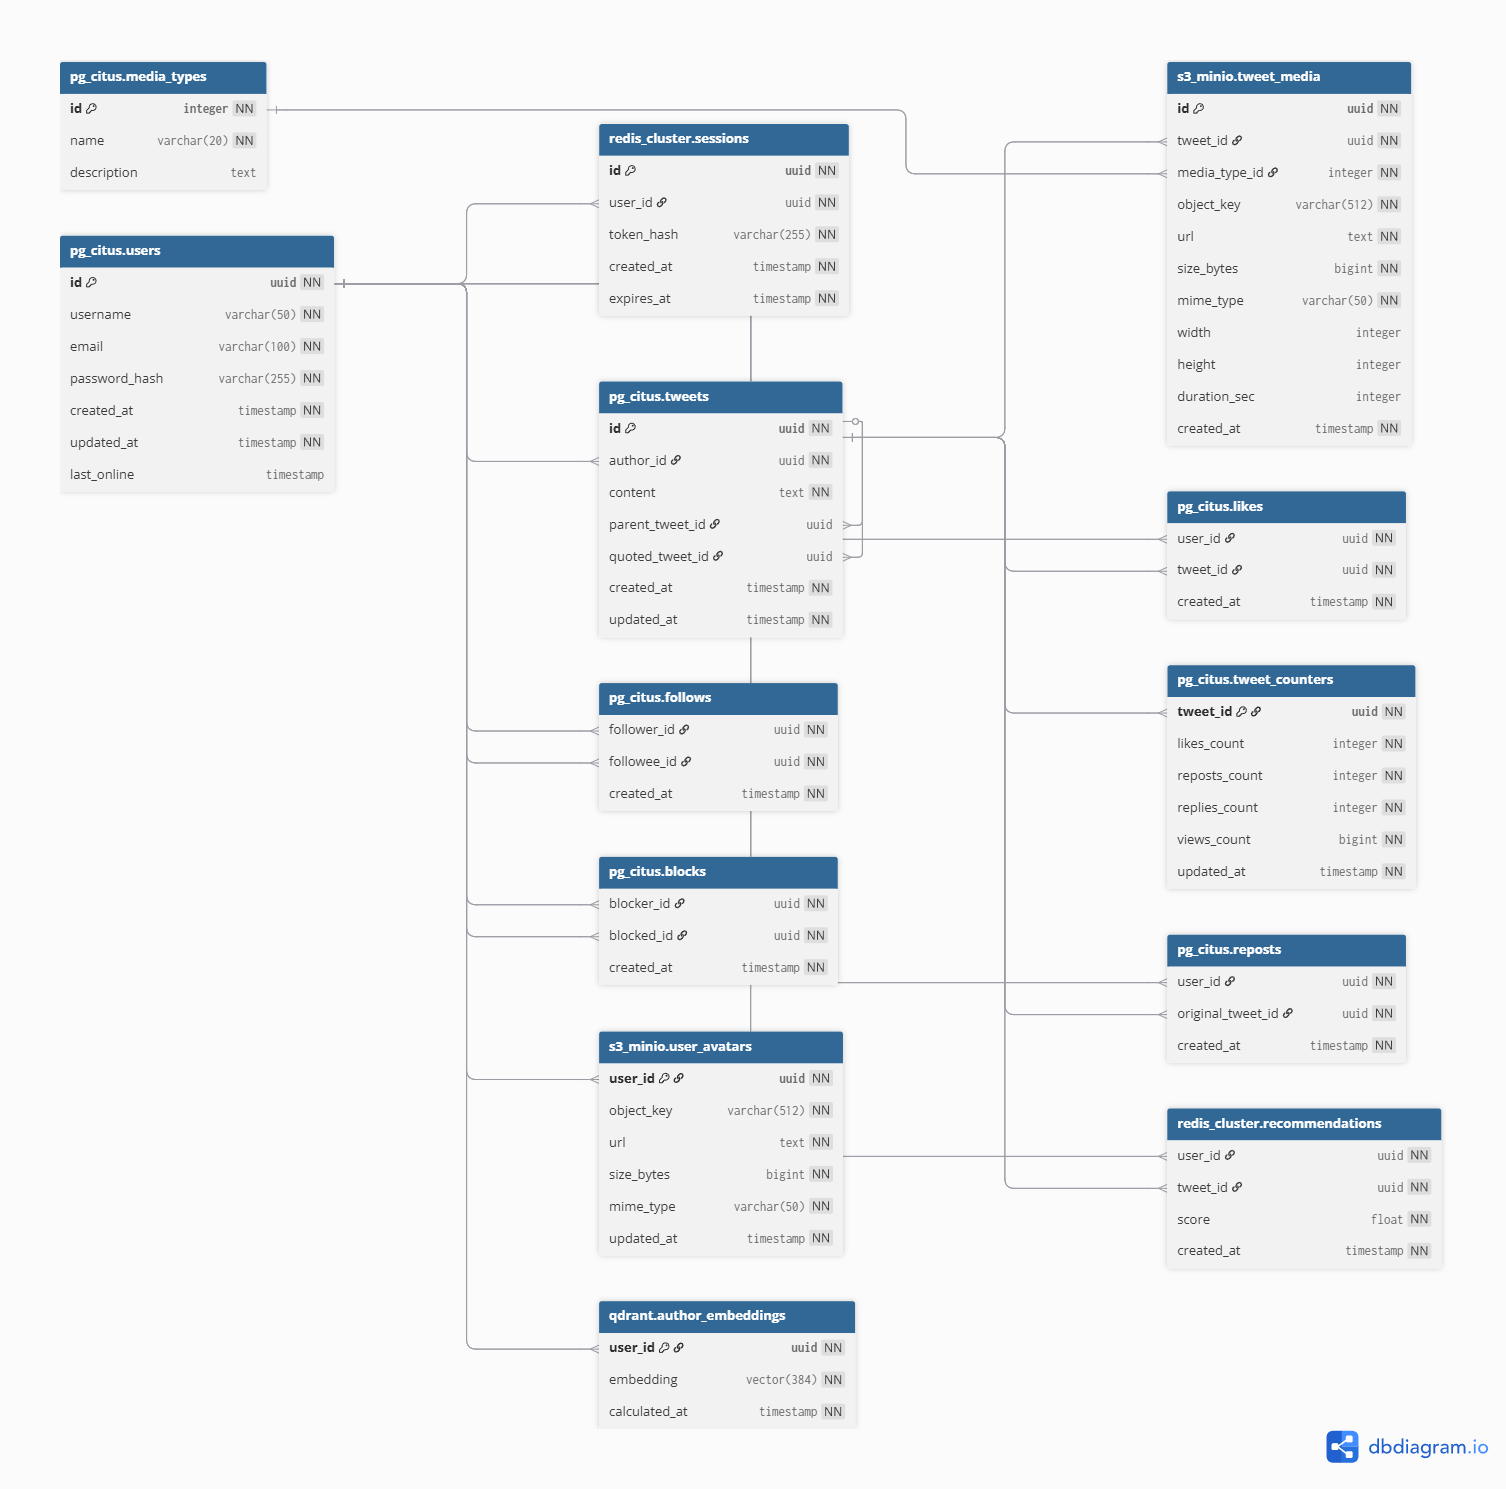
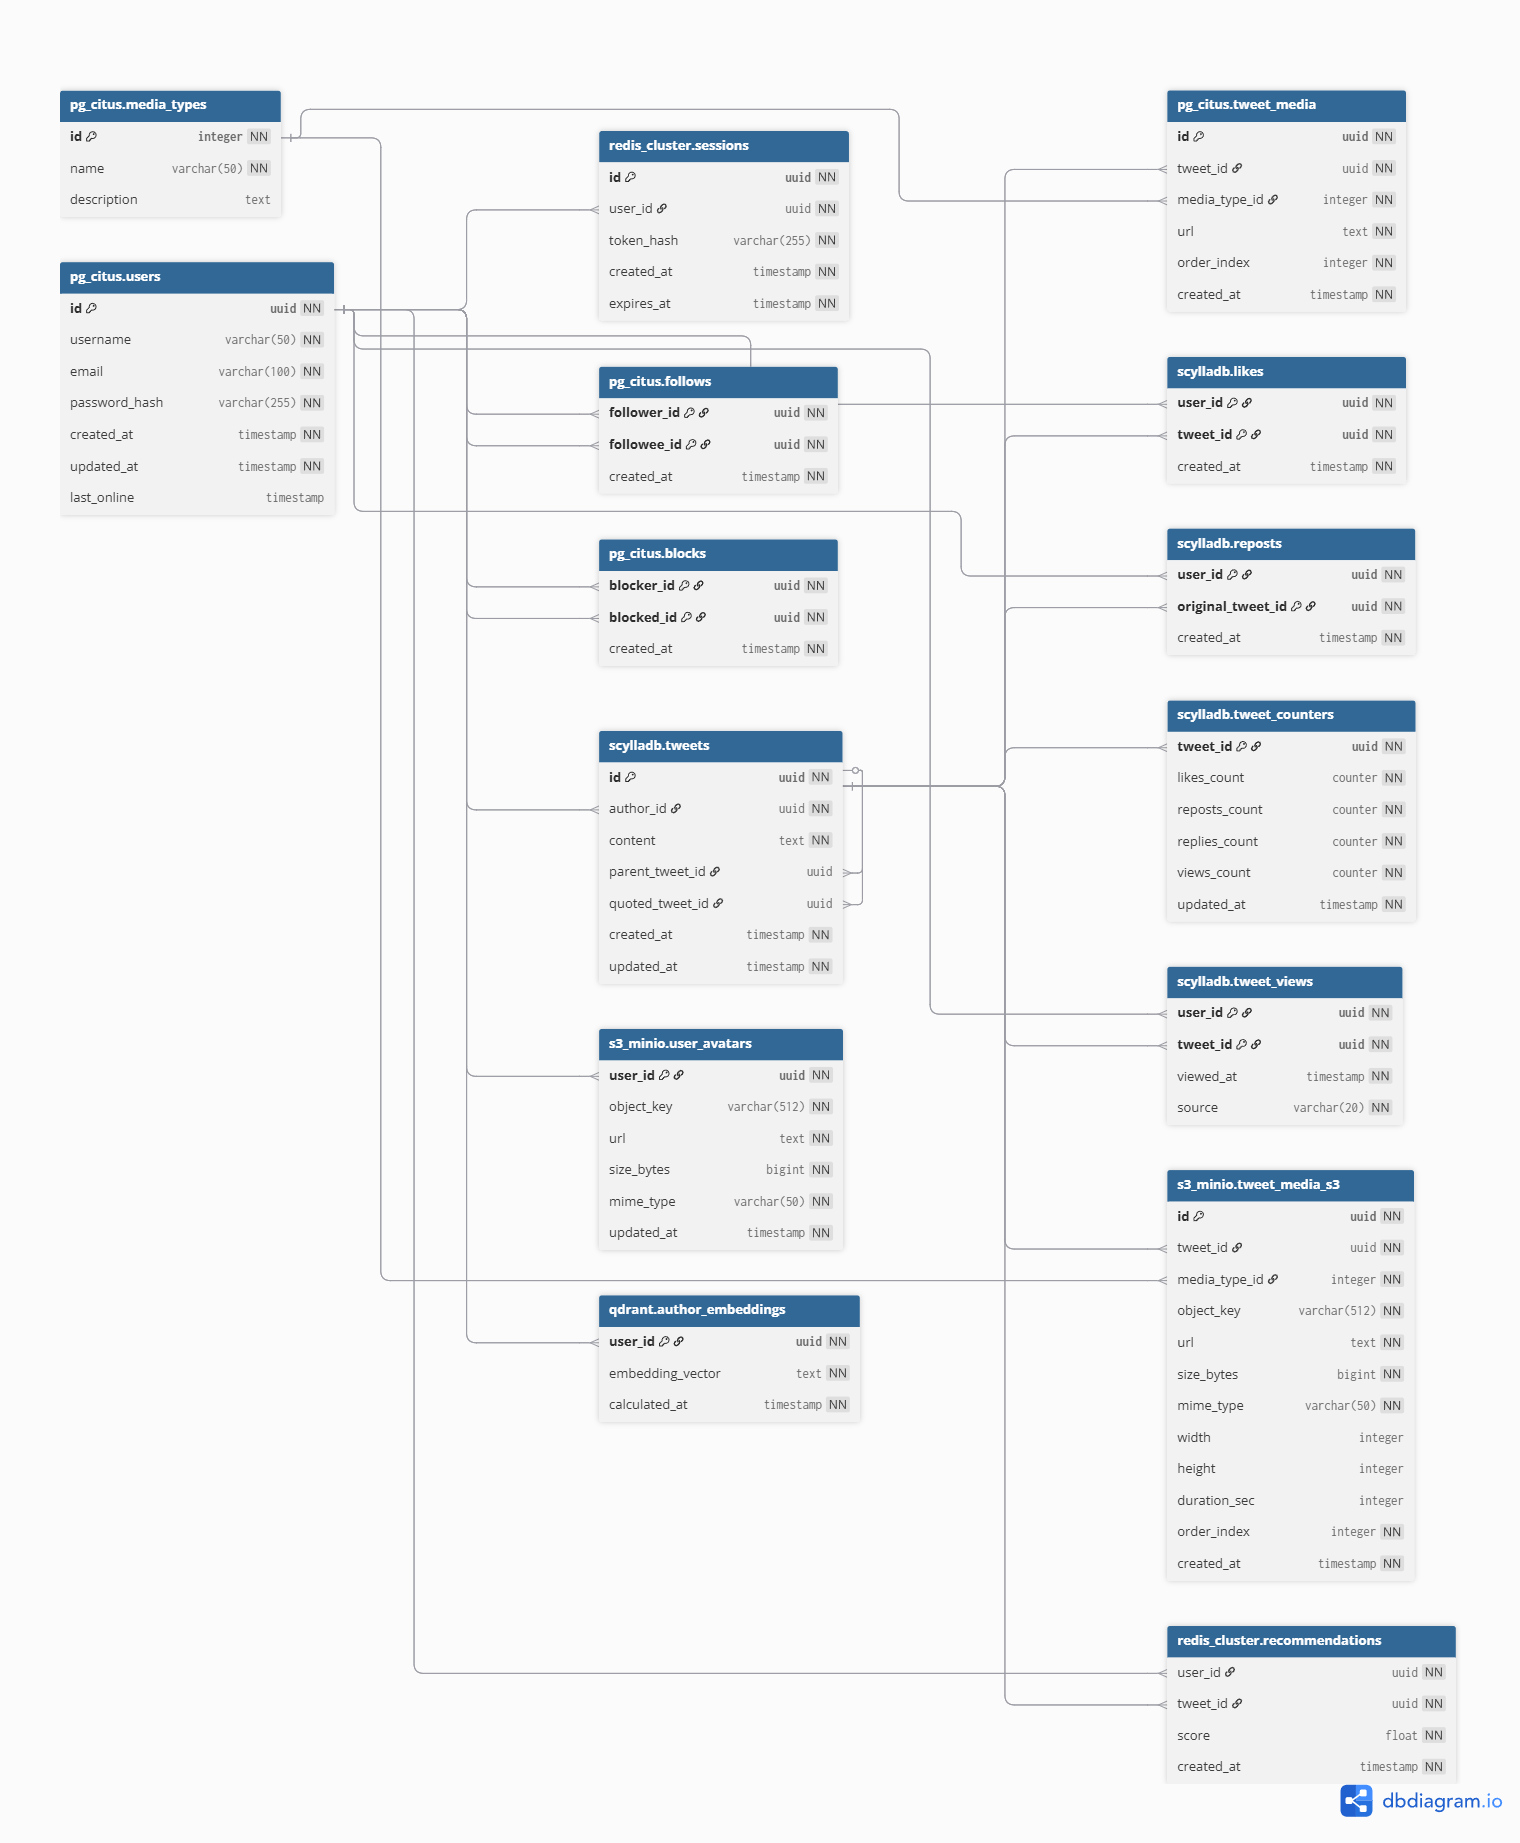
fix

diff --git a/README.md b/README.md
@@ -415,79 +415,86 @@ N_net = ceil(488 / 5.87) = ceil(83.1) = 84
 
 ---
 
-# 5. Логическая схема БД
+### 5. Логическая схема БД
 
 #### Логическая схема
 
 ![5db](img/5.png)
-
 #### Описание таблиц
 
-| Таблица | Назначение | Что хранится | Особенности |
-| ------- | ---------- | ------------ | ----------- |
-| `media_types` | Справочник типов медиафайлов. | Типы `image`, `video`, `gif`. | Используется для категоризации медиавложений. |
-| `users` | Профиль пользователя. | Идентификатор пользователя, username, email, хеш пароля, даты создания и обновления, время последнего онлайна. | Основная учетная сущность платформы. Username и email уникальны. |
-| `sessions` | Активные пользовательские сессии. | Токен сессии (хеш), привязка к пользователю, даты создания и истечения. | Один пользователь может иметь несколько активных сессий. |
-| `tweets` | Твиты, ответы и цитаты. | Автор, текст (1-280 символов), ссылка на родительский твит (для ответов), ссылка на цитируемый твит, даты создания и обновления. | Единая таблица для всех типов постов. Поддерживает вложенные ответы и цитаты. |
-| `follows` | Подписки пользователей. | Кто подписался (follower), на кого подписался (followee), дата подписки. | Обеспечивает ленту "Подписки". |
-| `blocks` | Заблокированные пользователи. | Кто заблокировал (blocker), кого заблокировал (blocked), дата блокировки. | Исключает контент заблокированных пользователей из лент. |
-| `likes` | Лайки на твитах. | Пользователь, твит, дата лайка. | Составной первичный ключ (user_id, tweet_id) без суррогатного id. |
-| `reposts` | Ретвиты (репосты). | Пользователь, оригинальный твит, дата ретвита. | Составной первичный ключ (user_id, original_tweet_id). |
-| `user_avatars` | Аватары пользователей. | Ссылка на файл аватара, дата обновления. | Отделена от users для оптимизации запросов. |
-| `tweet_media` | Медиафайлы твитов. | Твит, тип медиа, URL, порядковый индекс, дата создания. | Поддерживает несколько медиафайлов в одном твите с сортировкой. |
-| `recommendations` | Рекомендованные твиты. | Пользователь, твит, score (0-1), дата создания. | Используется для ленты "Для вас". Score отражает релевантность. |
-| `author_embeddings` | Эмбеддинги пользователей. | Векторное представление (384-dim) для content-based рекомендаций, дата расчета. | Используется для поиска похожих авторов. |
-| `tweet_counters` | Денормализованные счетчики. | Счетчики лайков, ретвитов, ответов, просмотров, дата обновления. | Обновляется триггерами для быстрого отображения в ленте. |
+| Таблица             | Назначение                        | Что хранится                                                                                                                     | Особенности                                                                                                |
+| ------------------- | --------------------------------- | -------------------------------------------------------------------------------------------------------------------------------- | ---------------------------------------------------------------------------------------------------------- |
+| `media_types`       | Справочник типов медиафайлов.     | Типы `image`, `video`, `gif`.                                                                                                    | Используется для категоризации медиавложений.                                                              |
+| `users`             | Профиль пользователя.             | Идентификатор пользователя, username, email, хеш пароля, даты создания и обновления, время последнего онлайна.                   | Основная учетная сущность платформы. Username и email уникальны.                                           |
+| `sessions`          | Активные пользовательские сессии. | Токен сессии (хеш), привязка к пользователю, даты создания и истечения.                                                          | Один пользователь может иметь несколько активных сессий.                                                   |
+| `tweets`            | Твиты, ответы и цитаты.           | Автор, текст (1-280 символов), ссылка на родительский твит (для ответов), ссылка на цитируемый твит, даты создания и обновления. | Единая таблица для всех типов постов. Поддерживает вложенные ответы и цитаты.                              |
+| `follows`           | Подписки пользователей.           | Кто подписался (follower), на кого подписался (followee), дата подписки.                                                         | Обеспечивает ленту "Подписки".                                                                             |
+| `blocks`            | Заблокированные пользователи.     | Кто заблокировал (blocker), кого заблокировал (blocked), дата блокировки.                                                        | Исключает контент заблокированных пользователей из лент.                                                   |
+| `likes`             | Лайки на твитах.                  | Пользователь, твит, дата лайка.                                                                                                  | Составной первичный ключ (user_id, tweet_id) без суррогатного id.                                          |
+| `reposts`           | Ретвиты (репосты).                | Пользователь, оригинальный твит, дата ретвита.                                                                                   | Составной первичный ключ (user_id, original_tweet_id).                                                     |
+| `tweet_views`       | Отслеживание показов твитов.      | Пользователь, твит, время показа, источник показа.                                                                               | **Составной PK (user_id, tweet_id). Используется для фильтрации уже показанных твитов в ленте "Для вас".** |
+| `user_avatars`      | Аватары пользователей.            | Ключ объекта в S3, URL, размер, MIME-тип, дата обновления.                                                                       | Отделена от users для оптимизации запросов. Бинарные файлы в S3.                                           |
+| `tweet_media`       | Метаданные медиафайлов твитов.    | Твит, тип медиа, URL, порядковый индекс, дата создания.                                                                          | Метаданные колоцированы с tweets для быстрого доступа.                                                     |
+| `tweet_media`       | Медиафайлы твитов.                | Ключ объекта, URL, размер, MIME-тип, ширина, высота, длительность (для видео).                                                   | Бинарные файлы в S3 + CDN.                                                                                 |
+| `recommendations`   | Рекомендованные твиты.            | Пользователь, твит, score (0-1), дата создания.                                                                                  | Redis Sorted Set. Score отражает релевантность.                                                            |
+| `author_embeddings` | Эмбеддинги пользователей.         | Векторное представление (384-dim), дата расчета.                                                                                 | Qdrant для поиска похожих авторов.                                                                         |
+| `tweet_counters`    | Денормализованные счетчики.       | Счетчики лайков, ретвитов, ответов, просмотров, дата обновления.                                                                 | Колоцирована с tweets, обновляется триггерами.                                                             |
 
-#### Размеры данных и нагрузки на чтение с записью
+#### Размеры данных и нагрузки на чтение с записью (обновленные)
 
-| Таблица             | Средний размер строки | Запись, QPS avg / peak | Чтение, QPS avg / peak | Суточный поток записи, ГБ/сут | Суточный поток чтения, ГБ/сут | Основание                                                                                      |
-| ------------------- | --------------------- | ---------------------- | ---------------------- | ----------------------------- | ----------------------------- | ---------------------------------------------------------------------------------------------- |
-| `media_types`       | ~100 B                | <1 / <1                | ~10 / ~20              | <0.01                         | <0.01                         | Справочник практически статичен.                                                               |
-| `users`             | ~200 B                | 5 / 10                 | 500,000 / 750,000      | 0.09                          | 9,000                         | Регистрации редки (0.001% от DAU), чтение профилей при каждом запросе ленты.                   |
-| `sessions`          | ~150 B                | 50 / 75                | 248,000 / 372,000      | 0.65                          | 4,000                         | Каждая сессия создается при входе, читается при каждом запросе (DAU * кол-во сеансов).         |
-| `tweets`            | ~500 B                | 5,382 / 8,073          | 940,000 / 1,410,000    | 240                           | 48,000                        | Основная нагрузка записи — создание твитов (465 млн/день), чтение — просмотр лент.             |
-| `follows`           | ~50 B                 | 300 / 500              | 200,000 / 300,000      | 1.3                           | 1,100                         | Подписки/отписки относительно редки (~0.1% от DAU в день), чтение при каждом построении ленты. |
-| `blocks`            | ~50 B                 | 10 / 20                | 248,000 / 372,000      | 0.04                          | 1,300                         | Блокировки редки (~0.003% от DAU), проверка при каждой выгрузке ленты.                         |
-| `likes`             | ~50 B                 | 32,407 / 48,610        | 500,000 / 750,000      | 140                           | 2,600                         | Высокая интенсивность лайков (2.8 млрд/день), чтение счетчиков через денормализацию.           |
-| `reposts`           | ~50 B                 | 3,704 / 5,556          | 100,000 / 150,000      | 16                            | 500                           | Ретвиты менее часты, чем лайки (320 млн/день).                                                 |
-| `user_avatars`      | ~150 B                | 30 / 50                | 500,000 / 750,000      | 0.04                          | 5,400                         | Обновление аватаров редко (10% пользователей в месяц), чтение при отображении твитов.          |
-| `tweet_media`       | ~200 B                | 10,000 / 15,000        | 200,000 / 300,000      | 170                           | 3,200                         | Медиа прикрепляются к ~60% твитов (в среднем 1-2 медиа на твит).                               |
-| `recommendations`   | ~80 B                 | 500,000 / 750,000      | 940,000 / 1,410,000    | 3,500                         | 6,500                         | Регулярный пересчет рекомендаций для активных пользователей (каждые 15-30 минут).              |
-| `author_embeddings` | ~2 KB                 | 500 / 1,000            | 50,000 / 75,000        | 85                            | 9,000                         | Пересчет эмбеддингов при изменении интересов (~2% активных пользователей в день).              |
-| `tweet_counters`    | ~70 B                 | 41,500 / 62,000        | 940,000 / 1,410,000    | 200                           | 4,700                         | Обновляется каждым лайком/ретвитом/ответом/просмотром, читается при показе каждого твита.      |
+| Таблица             | Средний размер строки | Запись, QPS avg / peak | Чтение, QPS avg / peak | Суточный поток записи, ГБ/сут | Суточный поток чтения, ГБ/сут | Основание                                                       |
+| ------------------- | --------------------- | ---------------------- | ---------------------- | ----------------------------- | ----------------------------- | --------------------------------------------------------------- |
+| `media_types`       | ~100 B                | <1 / <1                | ~10 / ~20              | <0.01                         | <0.01                         | Справочник практически статичен.                                |
+| `users`             | ~200 B                | 5 / 10                 | 500,000 / 750,000      | 0.09                          | 9,000                         | Регистрации редки, чтение профилей при каждом запросе ленты.    |
+| `sessions`          | ~150 B                | 50 / 75                | 248,000 / 372,000      | 0.65                          | 4,000                         | Каждая сессия создается при входе, читается при каждом запросе. |
+| `tweets`            | ~500 B                | 5,382 / 8,073          | 940,000 / 1,410,000    | 240                           | 48,000                        | Основная нагрузка записи — создание твитов.                     |
+| `follows`           | ~50 B                 | 300 / 500              | 200,000 / 300,000      | 1.3                           | 1,100                         | Подписки/отписки относительно редки.                            |
+| `blocks`            | ~50 B                 | 10 / 20                | 248,000 / 372,000      | 0.04                          | 1,300                         | Блокировки редки.                                               |
+| `likes`             | ~50 B                 | 32,407 / 48,610        | 500,000 / 750,000      | 140                           | 2,600                         | Высокая интенсивность лайков.                                   |
+| `reposts`           | ~50 B                 | 3,704 / 5,556          | 100,000 / 150,000      | 16                            | 500                           | Ретвиты менее часты, чем лайки.                                 |
+| **`tweet_views`**   | ~60 B                 | 248,000 / 372,000      | 940,000 / 1,410,000    | 1,300                         | 4,900                         | Каждый показ твита записывается.                                |
+| `user_avatars`      | ~200 B                | 30 / 50                | 500,000 / 750,000      | 0.05                          | 7,200                         | Обновление аватаров редко.                                      |
+| `tweet_media`       | ~200 B                | 10,000 / 15,000        | 200,000 / 300,000      | 170                           | 3,200                         | Медиа прикрепляются к ~60% твитов.                              |
+| `recommendations`   | ~80 B                 | 500,000 / 750,000      | 940,000 / 1,410,000    | 3,500                         | 6,500                         | Регулярный пересчет рекомендаций для активных пользователей.    |
+| `author_embeddings` | ~2 KB                 | 500 / 1,000            | 50,000 / 75,000        | 85                            | 9,000                         | Пересчет эмбеддингов при изменении интересов.                   |
+| `tweet_counters`    | ~70 B                 | 41,500 / 62,000        | 940,000 / 1,410,000    | 200                           | 4,700                         | Обновляется каждым лайком/ретвитом/ответом/просмотром.          |
 
-#### Требования к консистентности
+#### Требования к консистентности (обновленные)
 
-| Таблица или связка                                        | Тип консистентности | Что должно быть согласовано                                        | Основание                                                   |
-| --------------------------------------------------------- | ------------------- | ------------------------------------------------------------------ | ----------------------------------------------------------- |
-| `tweets` + `tweet_counters`                               | Strong.             | Создание твита и инициализация счетчика (0).                       | Нельзя показывать NULL счетчики для нового твита.           |
-| `likes` + `tweet_counters.likes_count`                    | Strong.             | Запись лайка и увеличение счетчика лайков.                         | Пользователь должен мгновенно видеть свой лайк.             |
-| `reposts` + `tweet_counters.reposts_count`                | Strong.             | Запись ретвита и увеличение счетчика ретвитов.                     | Атомарное обновление при ретвите.                           |
-| `tweets.parent_tweet_id` + `tweet_counters.replies_count` | Strong.             | Создание ответа и увеличение счетчика ответов родительского твита. | Счетчик ответов должен быть точен.                          |
-| `follows` при построении ленты                            | Strong.             | Актуальный список подписок для ленты "Подписки".                   | Нельзя показывать твиты отписавшегося пользователя.         |
-| `blocks` при построении лент                              | Strong.             | Исключение контента заблокированных пользователей.                 | Заблокированный пользователь не должен появляться в лентах. |
-| `recommendations`                                         | Eventual.           | Обновление рекомендаций на основе нового поведения.                | Рекомендации могут обновляться с задержкой в минуты.        |
-| `user_embeddings`                                         | Eventual.           | Обновление векторных представлений пользователей.                  | Допустима задержка до нескольких часов.                     |
-| `user_presence` (last_online)                             | Eventual.           | Обновление времени последней активности.                           | Небольшая задержка (5-10 секунд) допустима.                 |
+| Таблица или связка                                        | Тип консистентности | Что должно быть согласовано                              | Основание                                                                                        |
+| --------------------------------------------------------- | ------------------- | -------------------------------------------------------- | ------------------------------------------------------------------------------------------------ |
+| `tweets` + `tweet_counters`                               | Strong.             | Создание твита и инициализация счетчика (0).             | Нельзя показывать NULL счетчики для нового твита.                                                |
+| `likes` + `tweet_counters.likes_count`                    | Strong.             | Запись лайка и увеличение счетчика лайков.               | Пользователь должен мгновенно видеть свой лайк.                                                  |
+| `reposts` + `tweet_counters.reposts_count`                | Strong.             | Запись ретвита и увеличение счетчика ретвитов.           | Атомарное обновление при ретвите.                                                                |
+| `tweets.parent_tweet_id` + `tweet_counters.replies_count` | Strong.             | Создание ответа и увеличение счетчика ответов.           | Счетчик ответов должен быть точен.                                                               |
+| **`tweet_views` + `recommendations`**                     | Eventual.           | Фильтрация уже показанных твитов при формировании ленты. | Допустима задержка в несколько секунд, но пользователь не должен видеть один твит дважды подряд. |
+| `follows` при построении ленты                            | Strong.             | Актуальный список подписок для ленты.                    | Нельзя показывать твиты отписавшегося пользователя.                                              |
+| `blocks` при построении лент                              | Strong.             | Исключение контента заблокированных пользователей.       | Заблокированный пользователь не должен появляться в лентах.                                      |
+| `recommendations`                                         | Eventual.           | Обновление рекомендаций на основе нового поведения.      | Рекомендации могут обновляться с задержкой в минуты.                                             |
+| `author_embeddings`                                       | Eventual.           | Обновление векторных представлений пользователей.        | Допустима задержка до нескольких часов.                                                          |
+| `user_presence` (last_online)                             | Eventual.           | Обновление времени последней активности.                 | Небольшая задержка (5-10 секунд) допустима.                                                      |
 
-#### Особенности распределения нагрузки по ключам
+#### Особенности распределения нагрузки по ключам (обновленные)
 
-| Таблица             | Основной ключ нагрузки           | Характер распределения | Горячие ключи                                                                |
-| ------------------- | -------------------------------- | ---------------------- | ---------------------------------------------------------------------------- |
-| `media_types`       | `id`                             | Равномерное.           | Справочник слишком мал                                                       |
-| `users`             | `id`, `username`, `email`        | равномерное.           | Популярные пользователи (например, знаменитости) создают пики чтения.        |
-| `sessions`          | `user_id`, `token_hash`          | User-centric.          | Пользователи с несколькими устройствами создают больше сессий.               |
-| `tweets`            | `id`, `author_id`                | Смешанное.             | Популярные авторы создают основную нагрузку записи, вирусные твиты - чтения. |
-| `follows`           | `(follower_id)`, `(followee_id)` | Followee-centric.      | Популярные пользователи имеют миллионы подписчиков.                          |
-| `blocks`            | `(blocker_id, blocked_id)`       | Равномерное.           | Блокировки распределены относительно равномерно.                             |
-| `likes`             | `(tweet_id)`, `(user_id)`        | Tweet-centric.         | Вирусные твиты концентрируют миллионы лайков.                                |
-| `reposts`           | `(original_tweet_id)`            | Tweet-centric.         | Популярные твиты получают сотни тысяч ретвитов.                              |
-| `user_avatars`      | `user_id`                        | User-centric.          | Нагрузка пропорциональна активности пользователя.                            |
-| `tweet_media`       | `tweet_id`                       | Tweet-centric.         | Только часть твитов содержит медиа.                                          |
-| `recommendations`   | `(user_id, score)`               | User-centric.          | Активные пользователи требуют частого пересчета рекомендаций.                |
-| `author_embeddings` | `user_id`                        | Равномерное.           | Пересчет для всех активных пользователей.                                    |
-| `tweet_counters`    | `tweet_id`                       | Tweet-centric.         | Вирусные твиты создают основной трафик обновлений счетчиков.                 |
+| Таблица | Основной ключ нагрузки | Характер распределения | Горячие ключи |
+| ------- | ---------------------- | ---------------------- | -------------- |
+| `media_types` | `id` | Равномерное. | Справочник слишком мал. |
+| `users` | `id`, `username`, `email` | Равномерное. | Популярные пользователи (знаменитости) создают пики чтения. |
+| `sessions` | `user_id`, `token_hash` | User-centric. | Пользователи с несколькими устройствами создают больше сессий. |
+| `tweets` | `id`, `author_id` | Смешанное. | Популярные авторы создают нагрузку записи, вирусные твиты — чтения. |
+| `follows` | `(follower_id)`, `(followee_id)` | Followee-centric. | Популярные пользователи имеют миллионы подписчиков. |
+| `blocks` | `(blocker_id, blocked_id)` | Равномерное. | Блокировки распределены равномерно. |
+| `likes` | `(tweet_id)`, `(user_id)` | Tweet-centric. | Вирусные твиты концентрируют миллионы лайков. |
+| `reposts` | `(original_tweet_id)` | Tweet-centric. | Популярные твиты получают сотни тысяч ретвитов. |
+| **`tweet_views`** | **`(user_id, tweet_id)`** | **User-centric.** | **Активные пользователи генерируют основной объем записей просмотров.** |
+| `user_avatars` | `user_id` | User-centric. | Нагрузка пропорциональна активности пользователя. |
+| `tweet_media` | `tweet_id` | Tweet-centric. | Только часть твитов содержит медиа. |
+| `recommendations` | `(user_id, score)` | User-centric. | Активные пользователи требуют частого пересчета рекомендаций. |
+| `author_embeddings` | `user_id` | Равномерное. | Пересчет для всех активных пользователей. |
+| `tweet_counters` | `tweet_id` | Tweet-centric. | Вирусные твиты создают основной трафик обновлений счетчиков. |
+
+---
+
 # 6. Физическая схема баз данных
 
 #### Физические проекции данных
@@ -496,7 +503,7 @@ N_net = ceil(488 / 5.87) = ceil(83.1) = 84
 
 | Проекция          | Ключ физического доступа | Какие сценарии обслуживает                          | Основная идея                         |
 | ----------------- | ------------------------ | --------------------------------------------------- | ------------------------------------- |
-| **Tweet-centric** | `tweet_id`               | Выдача твитов, лайки/ретвиты, счётчики, медиа       | Все данные одного твита лежат рядом   |
+| **Tweet-centric** | `tweet_id`               | Выдача твитов, лайки/ретвиты, счётчики, медиа, просмотры | Все данные одного твита лежат рядом   |
 | **User-centric**  | `user_id`                | Профиль, подписки, блокировки, сессии, рекомендации | Все данные пользователя в одном месте |
 
 #### Физическая схема
@@ -505,63 +512,62 @@ N_net = ceil(488 / 5.87) = ceil(83.1) = 84
 
 ![6db](img/6.png)
 
-
 #### Выбор СУБД по таблицам
 
-| Таблица                     | СУБД               | Ключ шардирования / расположение                     | Резервирование         |
-| --------------------------- | ------------------ | ---------------------------------------------------- | ---------------------- |
-| `media_types`               | PostgreSQL (Citus) | Reference table                                      | RF = 2                 |
-| `users`                     | PostgreSQL (Citus) | `HASH(user_id)`, 32 шарда                            | 1 primary + 2 replicas |
-| `sessions`                  | Redis Cluster      | `KEY = session:{id}`, автоматическое по CRC16        | 1 master + 1 replica   |
-| `follows`                   | PostgreSQL (Citus) | `HASH(follower_id)`, 32 шарда                        | 1 primary + 2 replicas |
-| `blocks`                    | PostgreSQL (Citus) | `HASH(blocker_id)`, 32 шарда                         | 1 primary + 2 replicas |
-| `tweets`                    | PostgreSQL (Citus) | `HASH(tweet_id)`, 64 шарда                           | 1 primary + 2 replicas |
-| `tweet_media` (метаданные)  | PostgreSQL (Citus) | `HASH(tweet_id)`, колоцирована с `tweets`            | 1 primary + 2 replicas |
-| `tweet_media_s3` (файлы)    | S3 (MinIO) + CDN   | Object key = `{tweet_id}/{media_id}`                 | Erasure coding 8+4     |
-| `likes` (user-копия)        | PostgreSQL (Citus) | `HASH(user_id)`, 32 шарда                            | 1 primary + 2 replicas |
-| `likes` (tweet-копия)       | PostgreSQL (Citus) | `HASH(tweet_id)`, 64 шарда                           | 1 primary + 2 replicas |
-| `reposts` (user-копия)      | PostgreSQL (Citus) | `HASH(user_id)`, 32 шарда                            | 1 primary + 2 replicas |
-| `reposts` (tweet-копия)     | PostgreSQL (Citus) | `HASH(original_tweet_id)`, 64 шарда                  | 1 primary + 2 replicas |
-| `tweet_counters`            | PostgreSQL (Citus) | `HASH(tweet_id)`, колоцирована с `tweets`            | 1 primary + 2 replicas |
-| `user_avatars` (метаданные) | PostgreSQL (Citus) | `HASH(user_id)`, колоцирована с `users`              | 1 primary + 2 replicas |
-| `user_avatars_s3` (файлы)   | S3 (MinIO) + CDN   | Object key = `avatars/{user_id}`                     | Erasure coding 8+4     |
-| `recommendations`           | Redis Cluster      | `KEY = recommendations:{user_id}`, Sorted Set        | 1 master + 1 replica   |
-| `author_embeddings`         | Qdrant             | Collection `author_embeddings`, шардинг по `user_id` | 1 primary + 2 replicas |
+| Таблица             | СУБД               | Ключ шардирования / расположение                     | Резервирование         |
+| ------------------- | ------------------ | ---------------------------------------------------- | ---------------------- |
+| `media_types`       | PostgreSQL (Citus) | Reference table                                      | RF = 2                 |
+| `users`             | PostgreSQL (Citus) | `HASH(user_id)`, 32 шарда                            | 1 primary + 2 replicas |
+| `sessions`          | Redis Cluster      | `KEY = session:{id}`, автоматическое по CRC16        | 1 master + 1 replica   |
+| `follows`           | PostgreSQL (Citus) | `HASH(follower_id)`, 32 шарда                        | 1 primary + 2 replicas |
+| `blocks`            | PostgreSQL (Citus) | `HASH(blocker_id)`, 32 шарда                         | 1 primary + 2 replicas |
+| `tweets`            | ScyllaDB           | `PARTITION BY (id)`, 64 шарда                        | RF = 3                 |
+| `tweet_views`       | ScyllaDB           | `PARTITION BY (user_id)`, 32 шарда                   | RF = 3                 |
+| `tweet_media`       | PostgreSQL (Citus) | `HASH(tweet_id)`, колоцирована с `tweets`            | 1 primary + 2 replicas |
+| `tweet_media_s3`    | S3 (MinIO) + CDN   | Object key = {tweet_id}/{media_id}                   | Erasure coding 8+4     |
+| `likes`             | ScyllaDB           | `PARTITION BY (tweet_id)`, 64 шарда                  | RF = 3                 |
+| `reposts`           | ScyllaDB           | `PARTITION BY (original_tweet_id)`, 64 шарда         | RF = 3                 |
+| `tweet_counters`    | ScyllaDB           | `PARTITION BY (tweet_id)`, колоцирована с `tweets`   | RF = 3                 |
+| `user_avatars`      | S3 (MinIO) + CDN   | Object key = `avatars/{user_id}`                     | Erasure coding 8+4     |
+| `recommendations`   | Redis Cluster      | `KEY = recommendations:{user_id}`, Sorted Set        | 1 master + 1 replica   |
+| `author_embeddings` | Qdrant             | Collection `author_embeddings`, шардинг по `user_id` | 1 primary + 2 replicas |
+
 ##### Обоснование выбора СУБД
 
-| Хранилище          | Назначение                             | Причины                                                                                                                                                                                                                                                                                                   |
-| ------------------ | -------------------------------------- | --------------------------------------------------------------------------------------------------------------------------------------------------------------------------------------------------------------------------------------------------------------------------------------------------------- |
-| PostgreSQL + Citus | Пользователи, твиты, подписки, лайки   | MySQL - хуже с шардированием. MongoDB/Cassandra - нет связей между таблицами и транзакций<br>Почему Citus, а не обычный PostgreSQL: обычный PostgreSQL не умеет сам раскладывать данные по разным серверам - упирается в мощность одной машины. Citus добавляет эту возможность, работая как единая база. |
-| Redis              | Сессии, кэш лент, рекомендации         | Memcached - не сохраняет данные на диск, нет сортированных списков                                                                                                                                                                                                                                        |
-| Qdrant             | Вектора пользователей для рекомендаций | pgvector (расширение PostgreSQL) - медленнее на миллионах векторов                                                                                                                                                                                                                                        |
-| S3 (MinIO) + CDN   | медиа                                  | высокая эффективность хранения                                                                                                                                                                                                                                                                            |
+| Хранилище          | Назначение                                                             | Причины                                                                    |
+| ------------------ | ------------------------------------------------------------------ | -------------------------------------------------------------------------- |
+| ScyllaDB       | Tweet-centric таблицы (твиты, лайки, репосты, просмотры, счетчики) | Высокая производительность на запись                                       |
+| PostgreSQL + Citus | Пользователи, подписки, блокировки, медиа-метаданные                   | Требуются связи между таблицами и транзакции. Citus добавляет шардирование |
+| Redis              | Сессии, кэш лент, рекомендации                                         | Memcached - не сохраняет данные на диск, нет сортированных списков         |
+| Qdrant             | Вектора пользователей для рекомендаций                                 | pgvector (расширение PostgreSQL) - медленнее на миллионах векторов         |
+| S3 (MinIO) + CDN   | медиа (аватары, изображения, видео)                                    | высокая эффективность хранения, CDN для глобальной доставки                |
 
 #### Индексы
 
-| Таблица | Индекс | Поля | Тип |
-|---------|--------|------|-----|
-| `users_postgres` | `idx_users_username` | `username` | UNIQUE |
-| `users_postgres` | `idx_users_email` | `email` | UNIQUE |
-| `users_postgres` | `idx_users_last_online` | `last_online DESC` | INDEX |
-| `tweets_postgres` | `idx_tweets_author_created` | `(author_id, created_at DESC)` | INDEX |
-| `tweets_postgres` | `idx_tweets_parent_created` | `(parent_tweet_id, created_at ASC)` | INDEX |
-| `follows_postgres` | `idx_follows_followee_created` | `(followee_id, created_at DESC)` | INDEX |
-| `follows_postgres` | `idx_follows_unique` | `(follower_id, followee_id)` | UNIQUE |
-| `blocks_postgres` | `idx_blocks_unique` | `(blocker_id, blocked_id)` | UNIQUE |
-| `likes_postgres` (tweet-copy) | `idx_likes_tweet_created` | `(tweet_id, created_at DESC)` | INDEX |
-| `likes_postgres` (user-copy) | `idx_likes_user_created` | `(user_id, created_at DESC)` | INDEX |
-| `reposts_postgres` (tweet-copy) | `idx_reposts_original_created` | `(original_tweet_id, created_at DESC)` | INDEX |
-| `tweet_media_postgres` | `idx_tweet_media_order` | `(tweet_id, order_index)` | UNIQUE |
-| `recommendations_redis` | `idx_recommendations_user_score` | `(user_id, score DESC)` | SORTED SET |
+| Таблица                 | Индекс                           | Поля                                   | Тип               |
+| ----------------------- | -------------------------------- | -------------------------------------- | ----------------- |
+| `users_postgres`        | `idx_users_username`             | `username`                             | UNIQUE            |
+| `users_postgres`        | `idx_users_email`                | `email`                                | UNIQUE            |
+| `users_postgres`        | `idx_users_last_online`          | `last_online DESC`                     | INDEX             |
+| `tweets_scylladb`       | `idx_tweets_author_created`      | `(author_id, created_at DESC)`         | MATERIALIZED VIEW |
+| `follows_postgres`      | `idx_follows_followee_created`   | `(followee_id, created_at DESC)`       | INDEX             |
+| `follows_postgres`      | `idx_follows_unique`             | `(follower_id, followee_id)`           | UNIQUE            |
+| `blocks_postgres`       | `idx_blocks_unique`              | `(blocker_id, blocked_id)`             | UNIQUE            |
+| `likes_scylladb`        | `idx_likes_tweet_created`        | `(tweet_id, created_at DESC)`          | MATERIALIZED VIEW |
+| `reposts_scylladb`      | `idx_reposts_original_created`   | `(original_tweet_id, created_at DESC)` | MATERIALIZED VIEW |
+| `tweet_views_scylladb`  | `idx_tweet_views_tweet_created`  | `(tweet_id, viewed_at DESC)`           | MATERIALIZED VIEW |
+| `tweet_media_postgres`  | `idx_tweet_media_order`          | `(tweet_id, order_index)`              | UNIQUE            |
+| `recommendations_redis` | `idx_recommendations_user_score` | `(user_id, score DESC)`                | SORTED SET        |
 
 #### Схема резервного копирования
 
-| Компонент                         | Механизм            | Расписание        | Retention |
-| --------------------------------- | ------------------- | ----------------- | --------- |
-| PostgreSQL (оба кластера)         | WAL + pg_basebackup | каждые 6 часов    | 7 дней    |
-| Redis (session + recommendations) | RDB + AOF           | RDB каждые 15 мин | 7 дней    |
-| Qdrant                            | Snapshot в S3       | ежечасный         | 7 дней    |
-| S3                                | Versioning          | непрерывно        | 30 дней   |
+| Компонент                         | Механизм                 | Расписание         | Retention  |
+| --------------------------------- | ------------------------ | ------------------ | ---------- |
+| ScyllaDB (tweet-centric)      | Snapshot + CommitLog | каждые 6 часов | 7 дней |
+| PostgreSQL (user-centric)         | WAL + pg_basebackup      | каждые 6 часов     | 7 дней     |
+| Redis (session + recommendations) | RDB + AOF                | RDB каждые 15 мин  | 7 дней     |
+| Qdrant                            | Snapshot в S3            | ежечасный          | 7 дней     |
+| S3                                | Versioning               | непрерывно         | 30 дней    |
 
 ---
 
@@ -630,34 +636,37 @@ N_net = ceil(488 / 5.87) = ceil(83.1) = 84
 
 #### Таблица резервирования
 
-| Компонент                 | Способ резервирования                       |
-| :------------------------ | :------------------------------------------ |
-| CDN                       | Кэширование контента, раздача из edge-узлов |
-| L4 балансировщик          | Обеспечивается облачным провайдером         |
-| L7 балансировщик (NGINX)  | N+1, 8 нод (7 рабочих + 1 резерв)         |
-| PostgreSQL (твиты)        | 64 шарда, репликация (RF=2), Patroni        |
-| PostgreSQL (пользователи) | 32 шарда, репликация (RF=2)                 |
-| Redis (сессии)            | 16 мастеров + 16 реплик, Redis Sentinel     |
-| Redis (рекомендации)      | 32 мастера + 32 реплики                     |
-| Qdrant (вектора)          | 1 primary + 2 реплики                       |
-| Kafka                     | Replication Factor = 3                      |
-| Backend сервисы           | Не менее 3 реплик каждого сервиса, HPA      |
-| S3 (MinIO)                | Erasure coding 8+4, versioning              |
-| K8s control plane         | 5 мастер-нод, 3 зоны доступности            |
+| Компонент | Способ резервирования | RTO / RPO |
+| :--- | :--- | :--- |
+| CDN | Кэширование контента, раздача из edge-узлов | 0 мин / 0 мин |
+| L4 балансировщик | Обеспечивается облачным провайдером | < 1 мин / 0 мин |
+| L7 балансировщик (NGINX) | N+1, 8 нод (7 рабочих + 1 резерв) | < 30 сек / 0 мин |
+| ScyllaDB (твиты, лайки, репосты, просмотры, счетчики) | 64 шарда, RF=3, автоматическая репликация | < 5 мин / < 5 мин |
+| PostgreSQL (пользователи, подписки, блокировки) | 32 шарда, репликация (RF=2), Patroni | < 5 мин / < 5 мин |
+| Redis (сессии) | 16 мастеров + 16 реплик, Redis Sentinel | < 2 мин / 0 мин |
+| Redis (рекомендации) | 32 мастера + 32 реплики | < 2 мин / < 15 мин |
+| Qdrant (вектора) | 1 primary + 2 реплики | < 5 мин / < 1 час |
+| Kafka | Replication Factor = 3 | < 5 мин / < 5 мин |
+| Backend сервисы | Не менее 3 реплик каждого сервиса, HPA | < 10 сек / 0 мин |
+| S3 (MinIO) | Erasure coding 8+4, versioning | < 10 мин / < 30 мин |
+| K8s control plane | 5 мастер-нод, 3 зоны доступности | < 5 мин / 0 мин |
 
 #### Отказ компонентов
 
-| Компонент                    | Что происходит                                                             |
-| :--------------------------- | :------------------------------------------------------------------------- |
-| L7 балансировщик (1 из 8)   | Остальные 7 продолжают работать, снижается запас пропускной способности   |
-| PostgreSQL (один шард)       | Недоступны только твиты этого шарда, остальные работают                    |
-| Redis (рекомендации)         | Лента "Для вас" временно упрощается (только подписки + популярное)         |
-| Qdrant                       | Векторные рекомендации отключаются, работает fallback на популярные твиты  |
-| Kafka                        | Публикация твитов может задержаться на 1-2 минуты, чтение лент работает    |
-| S3 (хранилище медиа)         | Аватары и картинки берутся из кэша CDN (24 часа), текст твитов работает    |
-| CDN                          | Медиа грузятся медленнее (напрямую из S3), но функциональность сохраняется |
-| Backend сервис (один под)    | K8s перезапускает под за <10 секунд, другие реплики работают               |
-| K8s (целая зона доступности) | Поды перераспределяются по живым зонам                                     |
+| Компонент                    | Что происходит                                                                                          |
+| :--------------------------- | :------------------------------------------------------------------------------------------------------ |
+| L7 балансировщик (1 из 8)    | Остальные 7 продолжают работать, снижается запас пропускной способности                                 |
+| ScyllaDB (один шард)         | Автоматическое переключение на реплику, недоступны только данные этого шарда (1/64), остальные работают |
+| ScyllaDB (целый узел)        | RF=3, данные доступны из двух других реплик, Hinted Handoff при восстановлении                          |
+| PostgreSQL (один шард)       | Недоступны только данные этого шарда, Patroni переключает на реплику                                    |
+| Redis (рекомендации)         | Лента "Для вас" временно упрощается (только подписки + популярное)                                      |
+| Qdrant                       | Векторные рекомендации отключаются, работает fallback на популярные твиты                               |
+| Kafka                        | Публикация твитов может задержаться на 1-2 минуты, чтение лент работает                                 |
+| S3 (хранилище медиа)         | Аватары и картинки берутся из кэша CDN (24 часа), текст твитов работает                                 |
+| CDN                          | Медиа грузятся медленнее (напрямую из S3), но функциональность сохраняется                              |
+| Backend сервис (один под)    | K8s перезапускает под за <10 секунд, другие реплики работают                                            |
+| K8s (целая зона доступности) | Поды перераспределяются по живым зонам                                                                  |
+
 
 ---
 # 10 Схема проекта